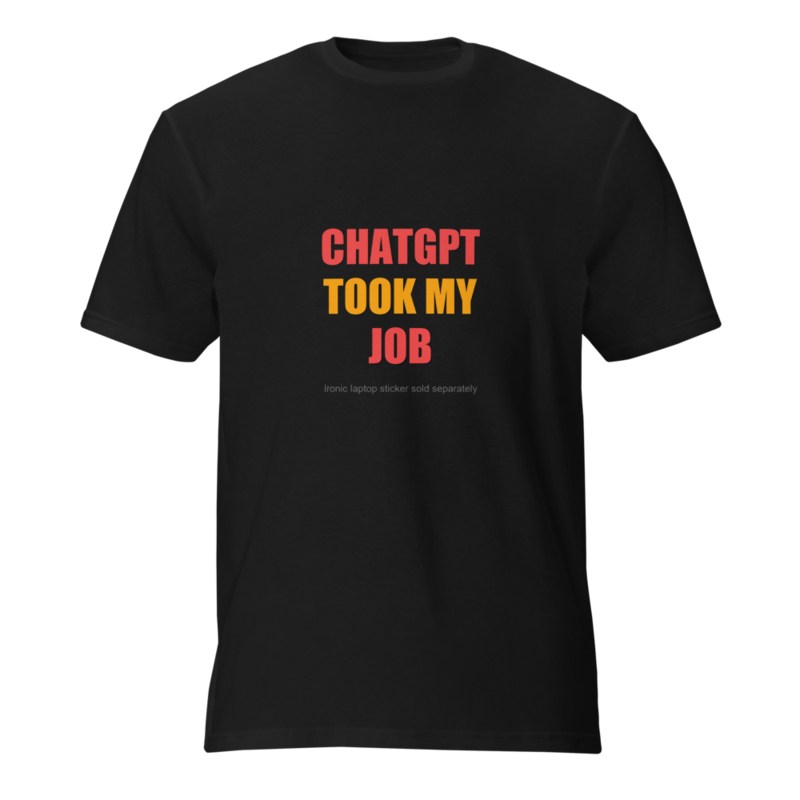
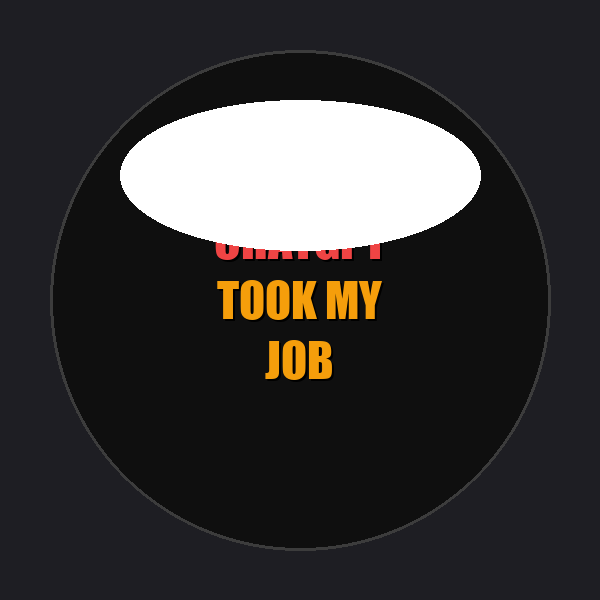
Add mockups for ChatGPT Took My Job and Still Human merch items

diff --git a/src/components/Merch.tsx b/src/components/Merch.tsx
@@ -23,7 +23,7 @@ const products = [
     name: "ChatGPT Took My Job",
     type: "Laptop Sticker",
     price: "$4.99",
-    mockup: null,
+    mockup: "chatgpt-took-job-tshirt.png",
     description: "Ironically place it on the device that replaced you. Poetic.",
     printfulId: null,
   },
@@ -47,7 +47,7 @@ const products = [
     name: "Still Human (For Now)",
     type: "Trucker Hat",
     price: "$19.99",
-    mockup: null,
+    mockup: "hat-still-human.png",
     description: "Technically accurate until the robots learn sarcasm.",
     printfulId: null,
   },

diff --git a/scripts/create_missing_mockups.py b/scripts/create_missing_mockups.py
@@ -1,0 +1,83 @@
+"""Generate placeholder mockups for items without Printful products."""
+import os
+from PIL import Image, ImageDraw, ImageFont
+
+OUT = r"C:\Users\insig\.copaw\workspaces\wn4ZsX\screwed-by-ai\public\designs\mockups"
+
+# Find a bold font
+font_paths = [
+    "C:\\Windows\\Fonts\\impact.ttf",
+    "C:\\Windows\\Fonts\\ariblk.ttf",
+    "C:\\Windows\\Fonts\\arialbd.ttf",
+    "C:\\Windows\\Fonts\\segoeuib.ttf",
+]
+FONT = None
+for p in font_paths:
+    if os.path.exists(p):
+        FONT = ImageFont.truetype(p, 48)
+        break
+if not FONT:
+    FONT = ImageFont.load_default()
+
+def make_sticker_mockup(filename, text):
+    """Make a sticker-style mockup - glossy black circle on grey bg."""
+    w, h = 600, 600
+    img = Image.new("RGB", (w, h), (30, 30, 35))
+    draw = ImageDraw.Draw(img)
+    
+    # Sticker circle
+    draw.ellipse([(50, 50), (550, 550)], fill=(15, 15, 15), outline=(60, 60, 60), width=3)
+    
+    # Text
+    lines = text.split("\n")
+    total_h = len(lines) * 60
+    y_start = (h - total_h) // 2
+    for i, line in enumerate(lines):
+        bbox = draw.textbbox((0, 0), line, font=FONT)
+        tw = bbox[2] - bbox[0]
+        x = (w - tw) // 2
+        y = y_start + i * 60
+        # Red for first line, gold for second
+        color = (239, 68, 68) if i == 0 else (245, 158, 11)
+        draw.text((x+2, y+2), line, fill=(0, 0, 0), font=FONT)
+        draw.text((x, y), line, fill=color, font=FONT)
+    
+    # Glossy highlight
+    draw.ellipse([(120, 100), (480, 250)], fill=(255, 255, 255, 8))
+    
+    path = os.path.join(OUT, filename)
+    img.save(path, "PNG")
+    print(f"  OK {filename} ({os.path.getsize(path)//1024}KB)")
+    return path
+
+def make_hat_mockup(filename, text):
+    """Make a hat-style mockup - cap shape on dark bg."""
+    w, h = 600, 600
+    img = Image.new("RGB", (w, h), (30, 30, 35))
+    draw = ImageDraw.Draw(img)
+    
+    # Hat silhouette (simple curved shape)
+    points = [(100, 500), (50, 200), (100, 100), (500, 100), (550, 200), (500, 500)]
+    draw.polygon(points, fill=(20, 20, 25), outline=(50, 50, 55))
+    
+    # Bill of the hat
+    draw.ellipse([(50, 450), (550, 530)], fill=(15, 15, 20), outline=(40, 40, 45))
+    
+    # Text on hat
+    bbox = draw.textbbox((0, 0), text, font=FONT)
+    tw = bbox[2] - bbox[0]
+    x = (w - tw) // 2
+    y = 220
+    draw.text((x+2, y+2), text, fill=(0, 0, 0), font=FONT)
+    draw.text((x, y), text, fill=(255, 255, 255), font=FONT)
+    
+    path = os.path.join(OUT, filename)
+    img.save(path, "PNG")
+    print(f"  OK {filename} ({os.path.getsize(path)//1024}KB)")
+    return path
+
+print("Creating missing mockups...")
+make_sticker_mockup("chatgpt-took-job-tshirt.png", "CHATGPT\nTOOK MY\nJOB")
+make_hat_mockup("hat-still-human.png", "STILL\nHUMAN")
+
+print("\nDone!")